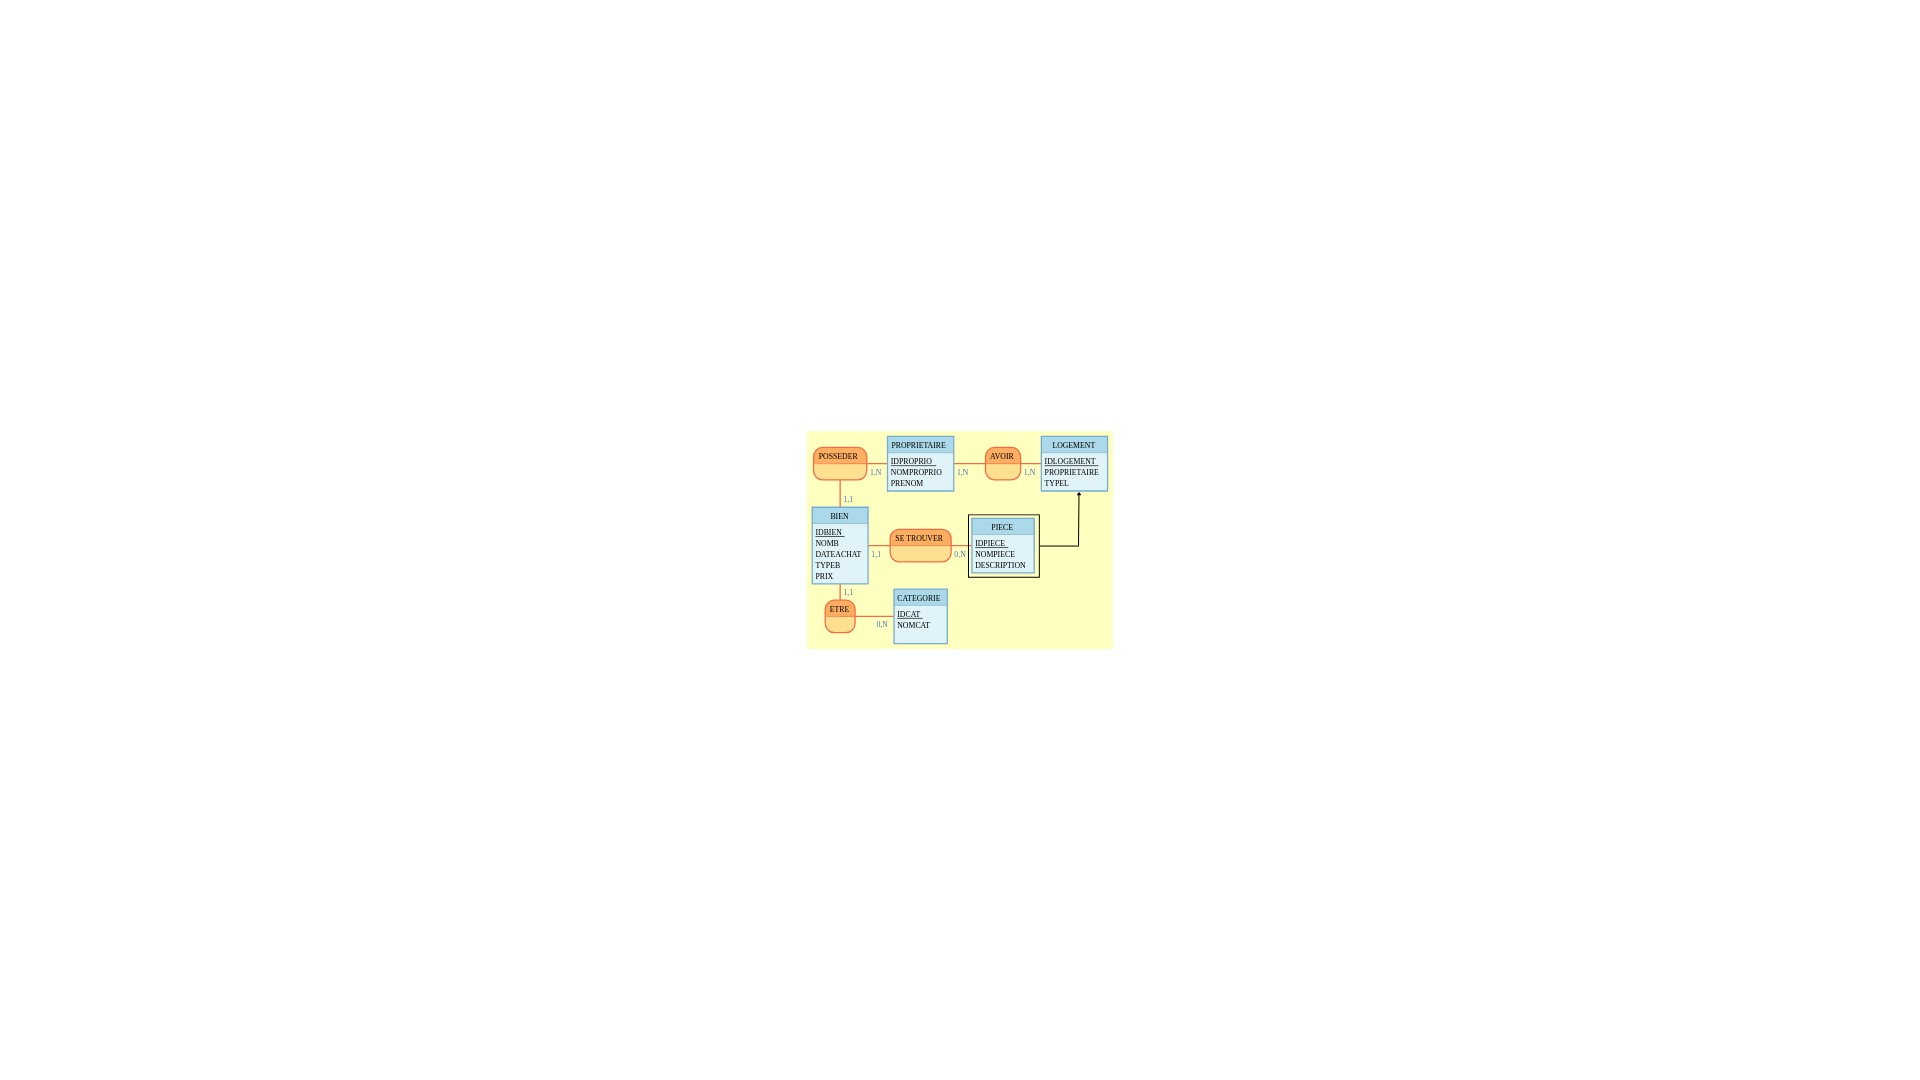
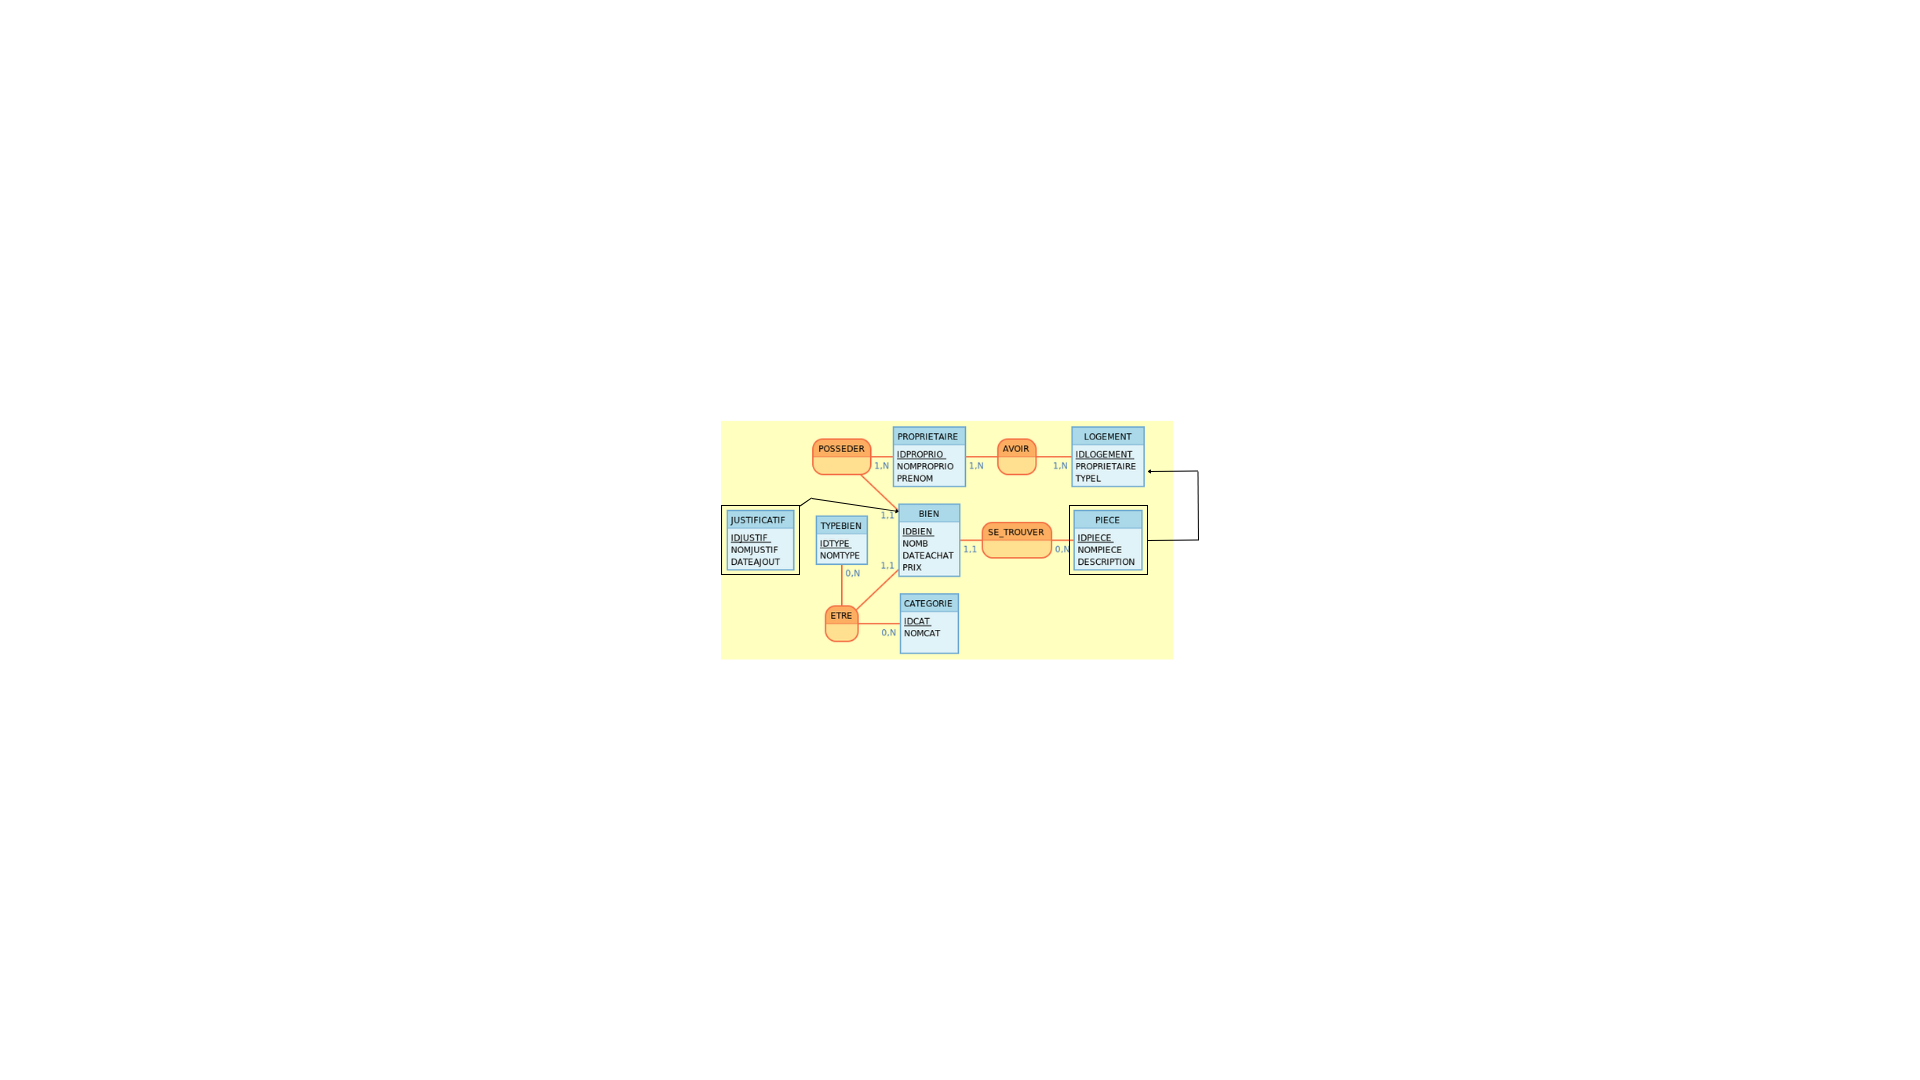
Add files via upload

Changed region(s): [[0.375, 0.3667, 0.625, 0.6111]]

diff --git a/mcd-mobilist/MCD_mld.html b/mcd-mobilist/MCD_mld.html
@@ -1,0 +1,107 @@
+<!-- Generated by Mocodo 4.2.11 -->
+
+<div class="mld">
+<div>
+  <details><summary><span class='relation'>AVOIR</span> (
+    <span class='foreign primary'>#IDLOGEMENT</span>,
+    <span class='foreign primary'>#IDPROPRIO</span>
+  )</summary>
+  <ul>
+    <li>Le champ <i>IDLOGEMENT</i> fait partie de la clé primaire de la table. C'est une clé étrangère qui a migré directement à partir de l'entité <i>LOGEMENT</i>.</li>
+    <li>Le champ <i>IDPROPRIO</i> fait partie de la clé primaire de la table. C'est une clé étrangère qui a migré directement à partir de l'entité <i>PROPRIETAIRE</i>.</li>
+  </ul></details>
+</div>
+
+<div>
+  <details><summary><span class='relation'>BIEN</span> (
+    <span class='primary'>IDBIEN</span>,
+    <span class='normal'>NOMB</span>,
+    <span class='normal'>DATEACHAT</span>,
+    <span class='normal'>PRIX</span>,
+    <span class='foreign'>#IDPROPRIO</span>,
+    <span class='foreign'>#IDPIECE</span>,
+    <span class='foreign'>#IDCAT</span>,
+    <span class='foreign'>#IDTYPE</span>
+  )</summary>
+  <ul>
+    <li>Le champ <i>IDBIEN</i> constitue la clé primaire de la table. C'était déjà un identifiant de l'entité <i>BIEN</i>.</li>
+    <li>Les champs <i>NOMB</i>, <i>DATEACHAT</i> et <i>PRIX</i> étaient déjà de simples attributs de l'entité <i>BIEN</i>.</li>
+    <li>Le champ <i>IDPROPRIO</i> est une clé étrangère. Il a migré par l'association de dépendance fonctionnelle <i>POSSEDER</i> à partir de l'entité <i>PROPRIETAIRE</i> en perdant son caractère identifiant.</li>
+    <li>Le champ <i>IDPIECE</i> est une clé étrangère. Il a migré par l'association de dépendance fonctionnelle <i>SE_TROUVER</i> à partir de l'entité <i>PIECE</i> en perdant son caractère identifiant.</li>
+    <li>Le champ <i>IDCAT</i> est une clé étrangère. Il a migré par l'association de dépendance fonctionnelle <i>ETRE</i> à partir de l'entité <i>CATEGORIE</i> en perdant son caractère identifiant.</li>
+    <li>Le champ <i>IDTYPE</i> est une clé étrangère. Il a migré par l'association de dépendance fonctionnelle <i>ETRE</i> à partir de l'entité <i>TYPEBIEN</i> en perdant son caractère identifiant.</li>
+  </ul></details>
+</div>
+
+<div>
+  <details><summary><span class='relation'>CATEGORIE</span> (
+    <span class='primary'>IDCAT</span>,
+    <span class='normal'>NOMCAT</span>
+  )</summary>
+  <ul>
+    <li>Le champ <i>IDCAT</i> constitue la clé primaire de la table. C'était déjà un identifiant de l'entité <i>CATEGORIE</i>.</li>
+    <li>Le champ <i>NOMCAT</i> était déjà un simple attribut de l'entité <i>CATEGORIE</i>.</li>
+  </ul></details>
+</div>
+
+<div>
+  <details><summary><span class='relation'>JUSTIFICATIF</span> (
+    <span class='primary'>IDJUSTIF</span>,
+    <span class='normal'>NOMJUSTIF</span>,
+    <span class='normal'>DATEAJOUT</span>
+  )</summary>
+  <ul>
+    <li>Le champ <i>IDJUSTIF</i> constitue la clé primaire de la table. C'était déjà un identifiant de l'entité <i>JUSTIFICATIF</i>.</li>
+    <li>Les champs <i>NOMJUSTIF</i> et <i>DATEAJOUT</i> étaient déjà de simples attributs de l'entité <i>JUSTIFICATIF</i>.</li>
+  </ul></details>
+</div>
+
+<div>
+  <details><summary><span class='relation'>LOGEMENT</span> (
+    <span class='primary'>IDLOGEMENT</span>,
+    <span class='normal'>PROPRIETAIRE</span>,
+    <span class='normal'>TYPEL</span>
+  )</summary>
+  <ul>
+    <li>Le champ <i>IDLOGEMENT</i> constitue la clé primaire de la table. C'était déjà un identifiant de l'entité <i>LOGEMENT</i>.</li>
+    <li>Les champs <i>PROPRIETAIRE</i> et <i>TYPEL</i> étaient déjà de simples attributs de l'entité <i>LOGEMENT</i>.</li>
+  </ul></details>
+</div>
+
+<div>
+  <details><summary><span class='relation'>PIECE</span> (
+    <span class='primary'>IDPIECE</span>,
+    <span class='normal'>NOMPIECE</span>,
+    <span class='normal'>DESCRIPTION</span>
+  )</summary>
+  <ul>
+    <li>Le champ <i>IDPIECE</i> constitue la clé primaire de la table. C'était déjà un identifiant de l'entité <i>PIECE</i>.</li>
+    <li>Les champs <i>NOMPIECE</i> et <i>DESCRIPTION</i> étaient déjà de simples attributs de l'entité <i>PIECE</i>.</li>
+  </ul></details>
+</div>
+
+<div>
+  <details><summary><span class='relation'>PROPRIETAIRE</span> (
+    <span class='primary'>IDPROPRIO</span>,
+    <span class='normal'>NOMPROPRIO</span>,
+    <span class='normal'>PRENOM</span>
+  )</summary>
+  <ul>
+    <li>Le champ <i>IDPROPRIO</i> constitue la clé primaire de la table. C'était déjà un identifiant de l'entité <i>PROPRIETAIRE</i>.</li>
+    <li>Les champs <i>NOMPROPRIO</i> et <i>PRENOM</i> étaient déjà de simples attributs de l'entité <i>PROPRIETAIRE</i>.</li>
+  </ul></details>
+</div>
+
+<div>
+  <details><summary><span class='relation'>TYPEBIEN</span> (
+    <span class='primary'>IDTYPE</span>,
+    <span class='normal'>NOMTYPE</span>
+  )</summary>
+  <ul>
+    <li>Le champ <i>IDTYPE</i> constitue la clé primaire de la table. C'était déjà un identifiant de l'entité <i>TYPEBIEN</i>.</li>
+    <li>Le champ <i>NOMTYPE</i> était déjà un simple attribut de l'entité <i>TYPEBIEN</i>.</li>
+  </ul></details>
+</div>
+
+
+</div>
